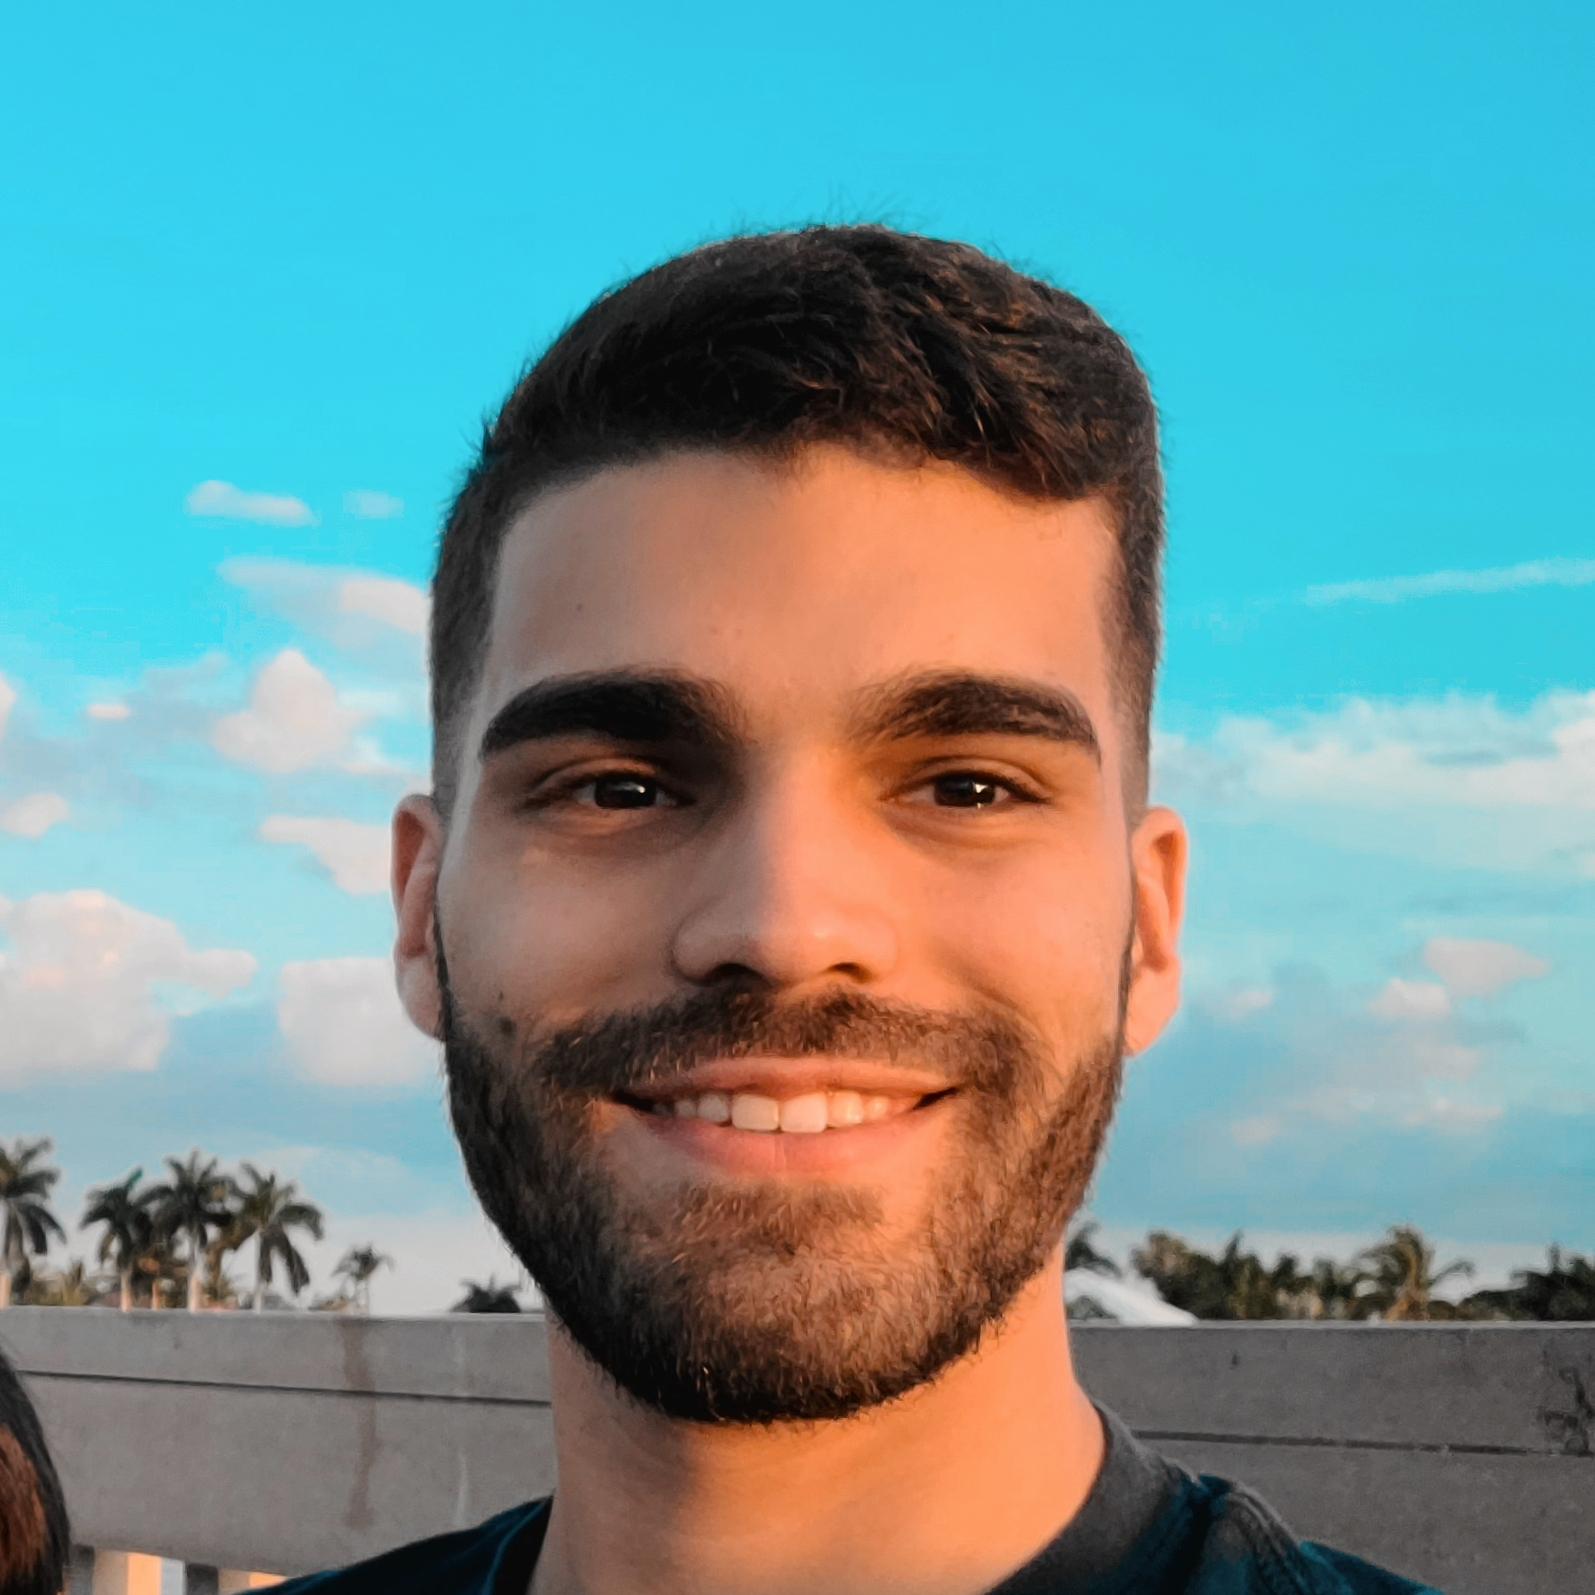
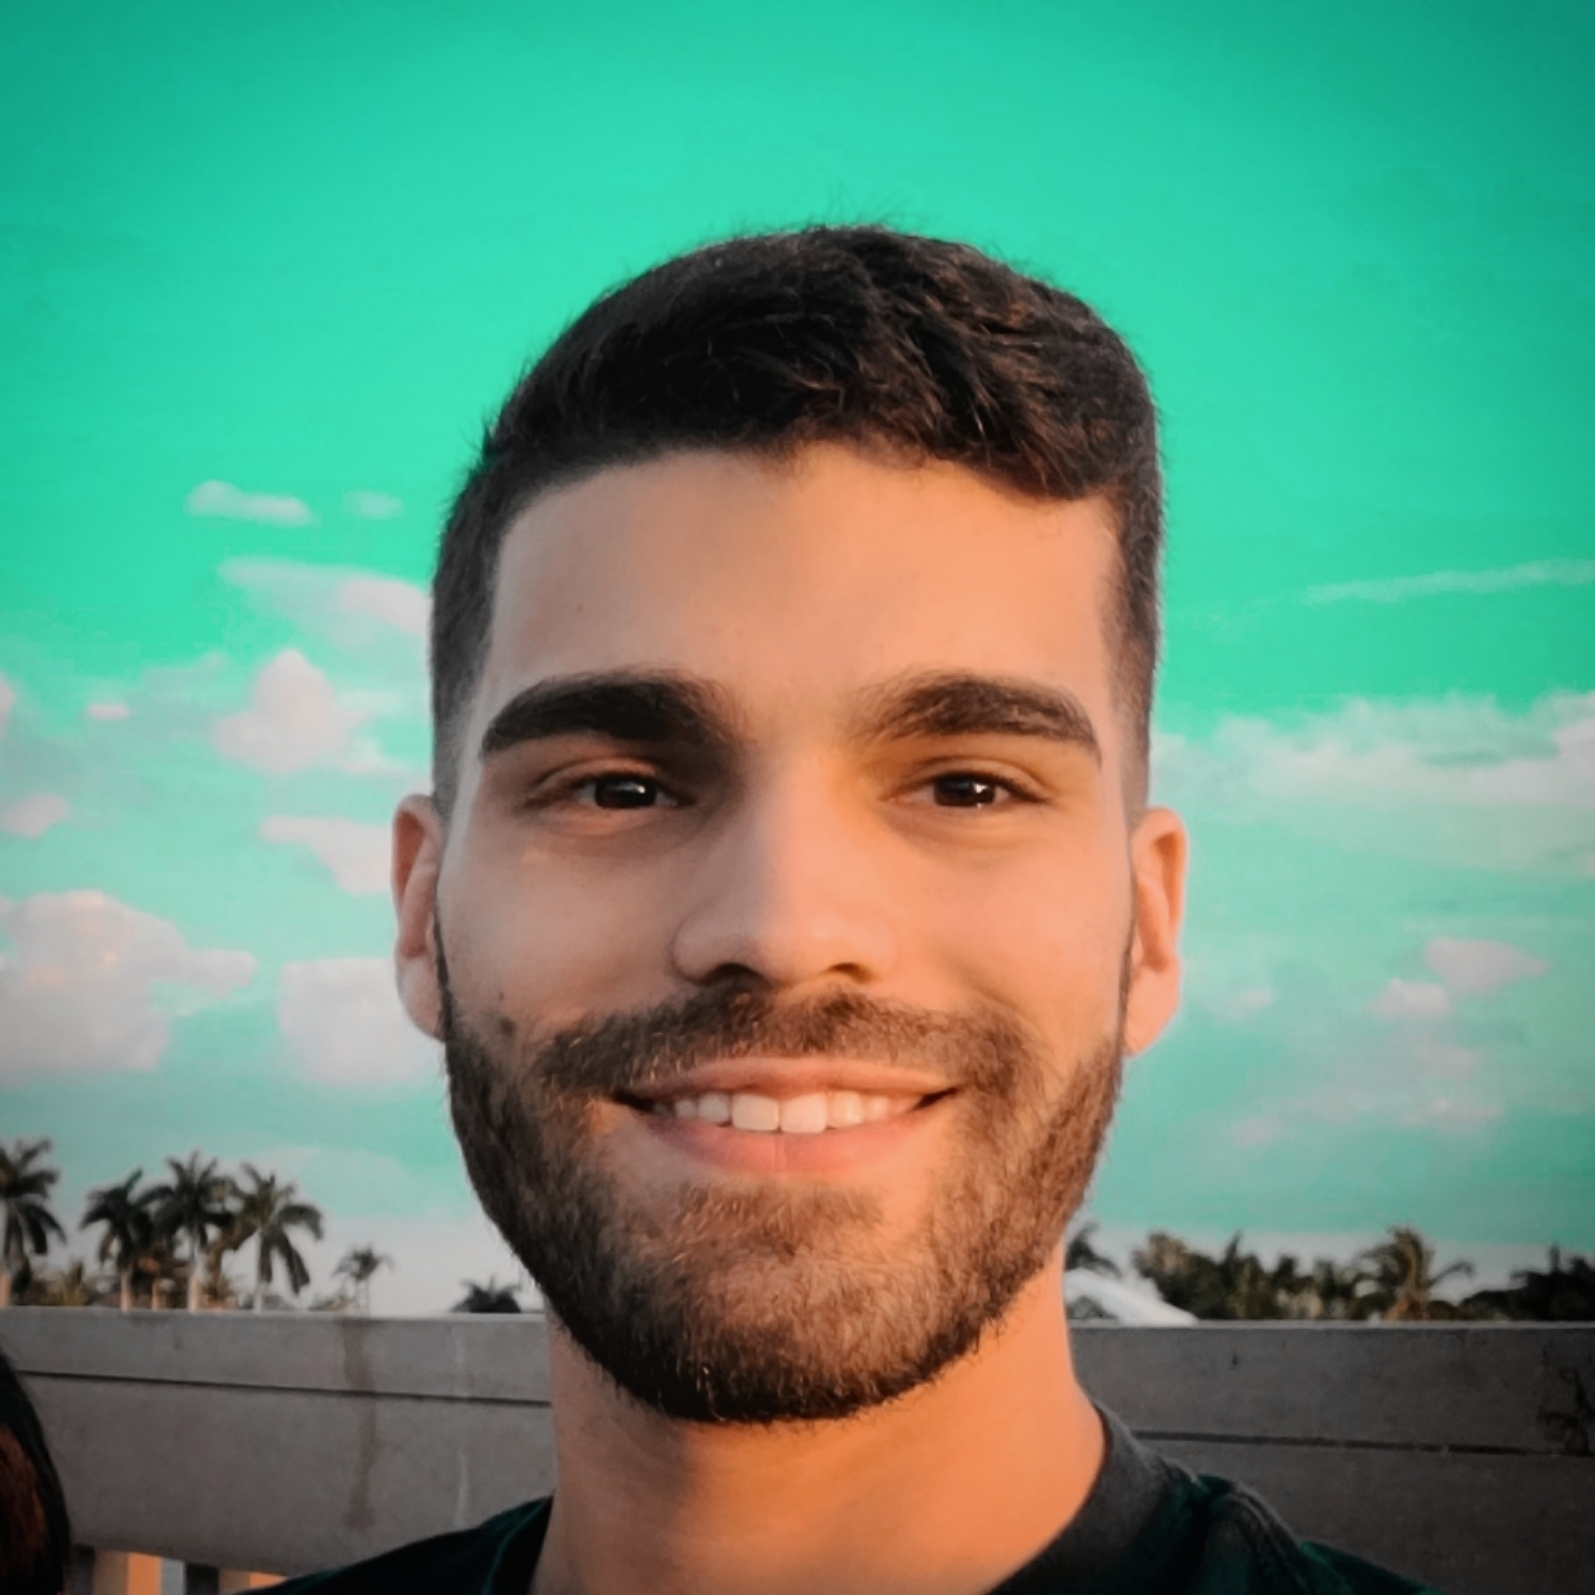
updated profile picture

diff --git a/src/sass/components/_hero.scss b/src/sass/components/_hero.scss
@@ -26,7 +26,7 @@
         }
 
         @include respond(bigphone) {
-            height: calc(100vh - 130px);
+            height: calc(100vh - 160px);
             justify-content: center;
             margin: 60px 0 60px;
             position: relative;
@@ -109,7 +109,7 @@
             img {
                 height: 480px;
                 border-radius: 50%;
-                filter: hue-rotate(-15deg) contrast(1.1);
+                filter: contrast(1.2);
 
                 @include respond(tab-land) {
                     height: 100%;
@@ -167,6 +167,10 @@
     -webkit-animation: fade_move_down 4s ease-in-out infinite;
     -moz-animation: fade_move_down 4s ease-in-out infinite;
     animation: fade_move_down 4s ease-in-out infinite;
+
+    @include respond(phone) {
+        bottom: 2%;
+    }
 }
 
 /*animated scroll arrow animation*/
